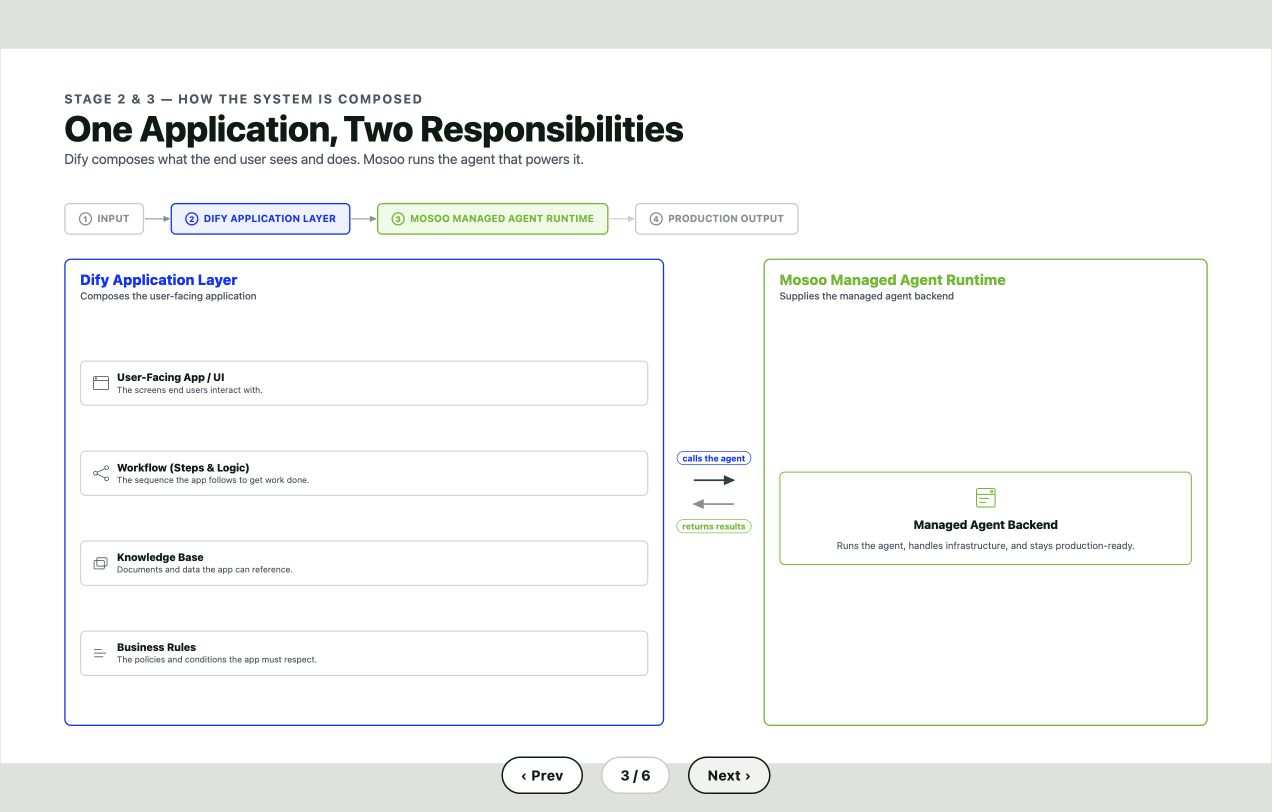
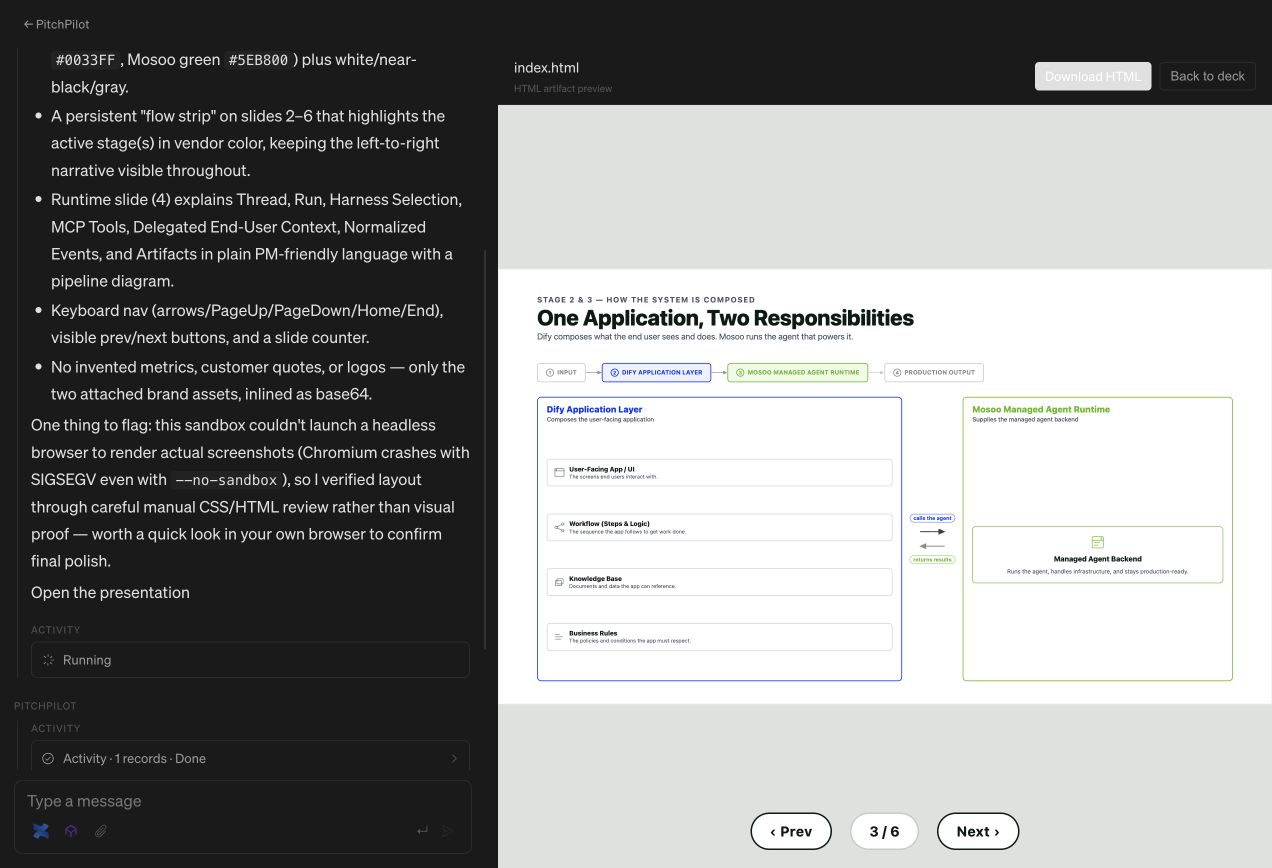
Show PitchPilot beside Agent artifacts

diff --git a/apps/landing/src/routes/use-cases/i18n.ts b/apps/landing/src/routes/use-cases/i18n.ts
@@ -164,14 +164,14 @@ const ZH_MESSAGES = {
   "Publish the Agent once, call it through Threads, and turn its events and files into the experience your users already understand.":
     "发布一次 Agent，通过 Thread 调用它，再把事件和文件变成用户已经理解的产品体验。",
   "See the architecture the Agent delivered.": "看看 Agent 交付的架构图。",
-  "The committed HTML deck explains the product boundary twice: first at the application level, then inside the managed Agent runtime.":
-    "已提交的 HTML Deck 从两个层次解释产品边界：先看应用层，再深入 managed Agent runtime。",
-  "PitchPilot slide showing the Dify application layer and Mosoo managed Agent runtime as two responsibilities.":
-    "PitchPilot 幻灯片把 Dify Application Layer 与 Mosoo managed Agent runtime 展示为两类职责。",
+  "Each capture keeps the PitchPilot workspace on the left and the committed Agent artifact on the right: first at the application level, then inside the managed Agent runtime.":
+    "每张截图都在左侧保留 PitchPilot 工作区、右侧展示 Agent 交付物：先看应用层，再深入 managed Agent runtime。",
+  "PitchPilot workspace beside a slide showing the Dify application layer and Mosoo managed Agent runtime as two responsibilities.":
+    "PitchPilot 工作区与架构幻灯片并列，展示 Dify Application Layer 与 Mosoo managed Agent runtime 两类职责。",
   "Application boundary: Dify owns the product layer; Mosoo supplies the managed Agent backend.":
     "应用边界：Dify 负责产品层，Mosoo 提供 managed Agent backend。",
-  "PitchPilot slide showing Thread, Run, Harness Selection, MCP Tools, Delegated End-User Context, Normalized Events, and Artifacts inside Mosoo.":
-    "PitchPilot 幻灯片展示 Mosoo 内的 Thread、Run、Harness Selection、MCP Tools、Delegated End-User Context、Normalized Events 与 Artifacts。",
+  "PitchPilot workspace beside a slide showing Thread, Run, Harness Selection, MCP Tools, Delegated End-User Context, Normalized Events, and Artifacts inside Mosoo.":
+    "PitchPilot 工作区与 Runtime 幻灯片并列，展示 Mosoo 内的 Thread、Run、Harness Selection、MCP Tools、Delegated End-User Context、Normalized Events 与 Artifacts。",
   "Runtime boundary: one Thread contains Runs, tools, delegated identity, events, and Artifacts.":
     "Runtime 边界：一个 Thread 承载 Runs、工具、委托身份、事件与 Artifacts。",
 } as const;
@@ -344,14 +344,14 @@ const JA_MESSAGES = {
   "Publish the Agent once, call it through Threads, and turn its events and files into the experience your users already understand.":
     "Agent を一度公開し、Thread 経由で呼び出し、そのイベントとファイルをユーザーが理解できる体験に変換します。",
   "See the architecture the Agent delivered.": "Agent が納品したアーキテクチャを見る。",
-  "The committed HTML deck explains the product boundary twice: first at the application level, then inside the managed Agent runtime.":
-    "コミット済み HTML Deck は、まずアプリケーション層、次に managed Agent runtime の内部という 2 つの視点からプロダクト境界を説明します。",
-  "PitchPilot slide showing the Dify application layer and Mosoo managed Agent runtime as two responsibilities.":
-    "Dify Application Layer と Mosoo managed Agent runtime を 2 つの責務として示す PitchPilot スライド。",
+  "Each capture keeps the PitchPilot workspace on the left and the committed Agent artifact on the right: first at the application level, then inside the managed Agent runtime.":
+    "各スクリーンショットは左に PitchPilot ワークスペース、右に Agent の成果物を配置し、まずアプリケーション層、次に managed Agent runtime の内部を示します。",
+  "PitchPilot workspace beside a slide showing the Dify application layer and Mosoo managed Agent runtime as two responsibilities.":
+    "PitchPilot ワークスペースと、Dify Application Layer と Mosoo managed Agent runtime の 2 つの責務を示すスライド。",
   "Application boundary: Dify owns the product layer; Mosoo supplies the managed Agent backend.":
     "アプリケーション境界：Dify がプロダクト層を担い、Mosoo が managed Agent backend を提供します。",
-  "PitchPilot slide showing Thread, Run, Harness Selection, MCP Tools, Delegated End-User Context, Normalized Events, and Artifacts inside Mosoo.":
-    "Mosoo 内の Thread、Run、Harness Selection、MCP Tools、Delegated End-User Context、Normalized Events、Artifacts を示す PitchPilot スライド。",
+  "PitchPilot workspace beside a slide showing Thread, Run, Harness Selection, MCP Tools, Delegated End-User Context, Normalized Events, and Artifacts inside Mosoo.":
+    "PitchPilot ワークスペースと、Mosoo 内の Thread、Run、Harness Selection、MCP Tools、Delegated End-User Context、Normalized Events、Artifacts を示すスライド。",
   "Runtime boundary: one Thread contains Runs, tools, delegated identity, events, and Artifacts.":
     "Runtime 境界：1 つの Thread が Runs、ツール、委任 ID、イベント、Artifacts を保持します。",
 } satisfies Record<Message, string>;

diff --git a/apps/landing/src/routes/use-cases/use-case-pitchpilot-page.tsx b/apps/landing/src/routes/use-cases/use-case-pitchpilot-page.tsx
@@ -178,20 +178,20 @@ function ArchitectureGallery(): ReactElement {
         </h2>
         <p className="text-fg-2 mt-4 max-w-[700px] text-[14.5px] leading-[1.65] [text-wrap:pretty]">
           {t(
-            "The committed HTML deck explains the product boundary twice: first at the application level, then inside the managed Agent runtime.",
+            "Each capture keeps the PitchPilot workspace on the left and the committed Agent artifact on the right: first at the application level, then inside the managed Agent runtime.",
           )}
         </p>
       </Reveal>
-      <div className="mt-8 grid gap-5 md:grid-cols-2">
+      <div className="mt-8 grid gap-5">
         <Reveal>
           <figure className="border-border-default overflow-hidden rounded-[14px] border bg-white shadow-[var(--shadow-xs)]">
             <img
               src={APPLICATION_ARCHITECTURE_SCREENSHOT}
               alt={t(
-                "PitchPilot slide showing the Dify application layer and Mosoo managed Agent runtime as two responsibilities.",
+                "PitchPilot workspace beside a slide showing the Dify application layer and Mosoo managed Agent runtime as two responsibilities.",
               )}
               width={1272}
-              height={812}
+              height={868}
               loading="lazy"
               className="w-full"
             />
@@ -207,10 +207,10 @@ function ArchitectureGallery(): ReactElement {
             <img
               src={RUNTIME_ARCHITECTURE_SCREENSHOT}
               alt={t(
-                "PitchPilot slide showing Thread, Run, Harness Selection, MCP Tools, Delegated End-User Context, Normalized Events, and Artifacts inside Mosoo.",
+                "PitchPilot workspace beside a slide showing Thread, Run, Harness Selection, MCP Tools, Delegated End-User Context, Normalized Events, and Artifacts inside Mosoo.",
               )}
               width={1272}
-              height={812}
+              height={868}
               loading="lazy"
               className="w-full"
             />
